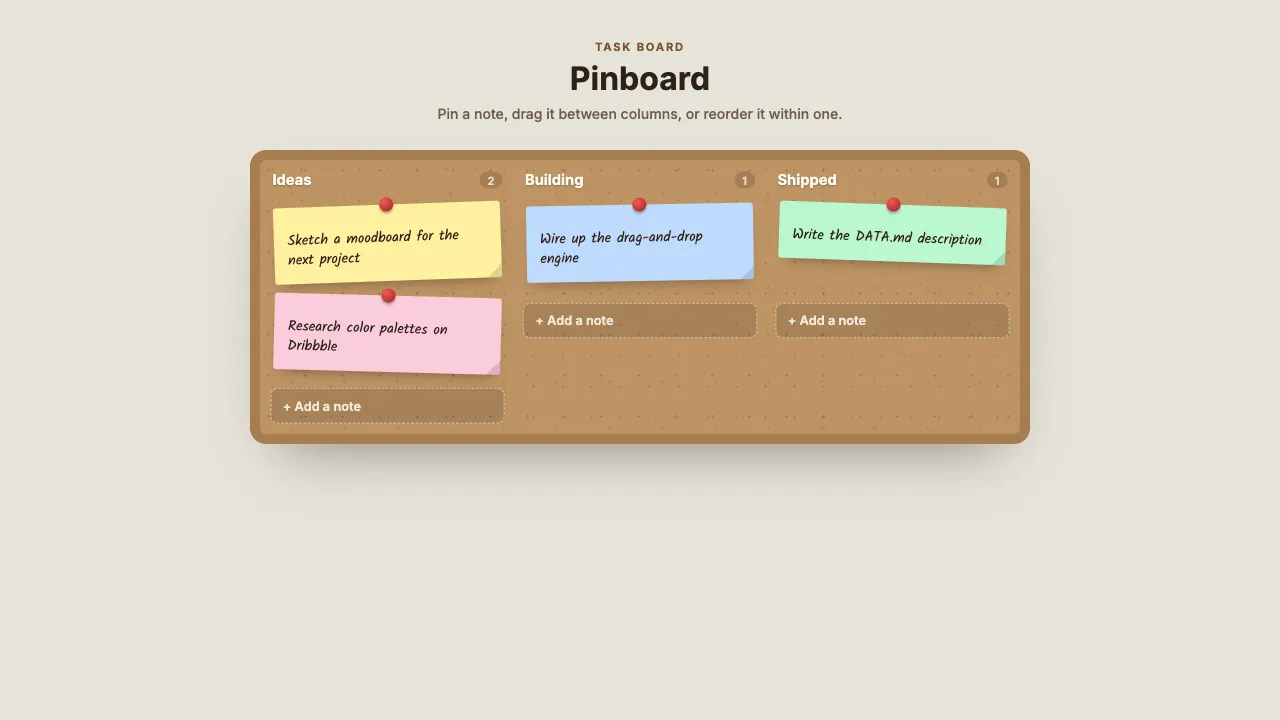
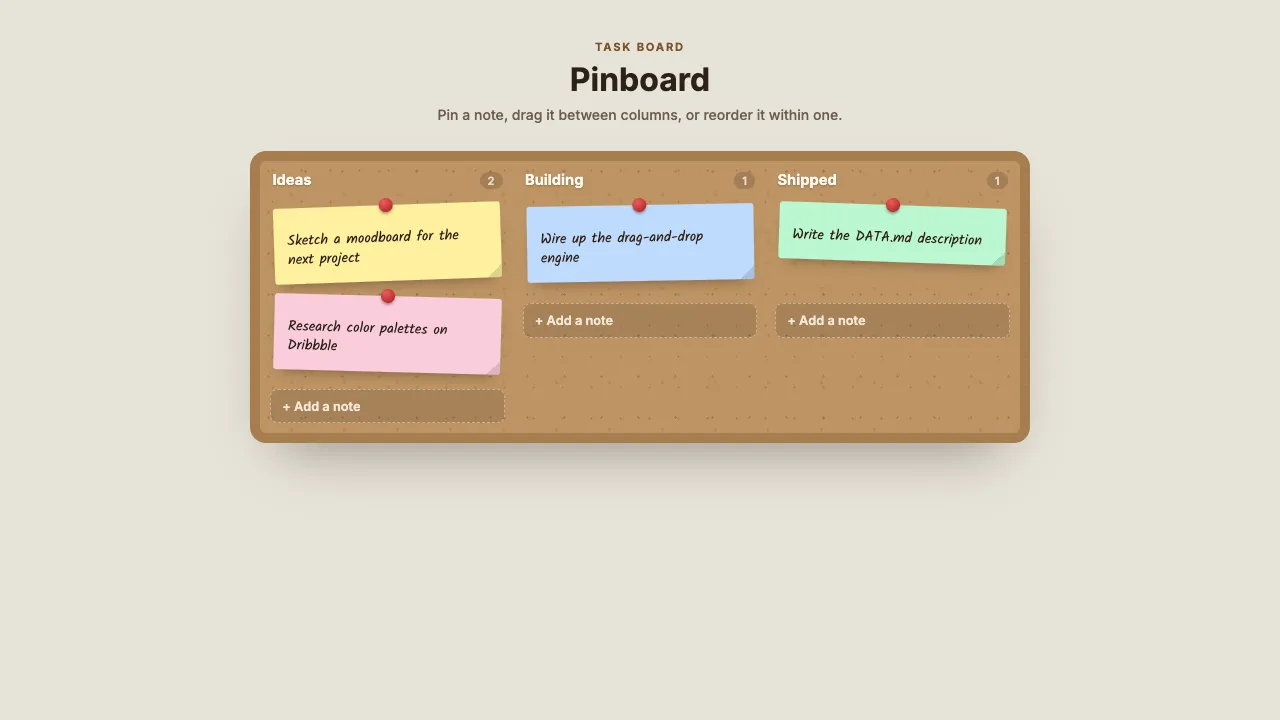
fix: Pinboard drop position and DATA.md metadata
- script.js: keep the dragged note's `is-dragging` class (position:
  fixed) applied through the settle transition instead of removing it
  first. Removing it early flipped the element to its base
  `position: relative` for one frame, and the inline left/top pixel
  values (meant as viewport coordinates) got reinterpreted as an
  offset from its normal flow position, flinging the card off to the
  side on drop.
- DATA.md: a literal bash quote-escaping artifact (`'"'"'`) had leaked
  into the English description instead of a plain apostrophe,
  corrupting the YAML frontmatter and silently dropping the
  description/difficulty/tags for this project everywhere they're
  read from consts.ts.

diff --git a/src/consts.ts b/src/consts.ts
@@ -700,16 +700,23 @@ export const PROJECTS: Project[] = [
   {
     "slug": "27-pinboard",
     "title": {
-      "en": "27-pinboard",
-      "es": "27-pinboard"
+      "en": "Pinboard",
+      "es": "Pinboard"
     },
     "hidden": false,
     "description": {
-      "en": "",
-      "es": ""
+      "en": "A corkboard-styled Kanban task board: pinned sticky notes you drag between three columns (or reorder within one) with a custom pointer-based drag engine built for touch, not the native HTML5 drag API. Persists to localStorage. Reimagined from html-css-js-projects #03, scoped up to match Frontend Mentor's Advanced-tier \"Kanban board\" challenge.",
+      "es": "Tablero Kanban con estilo de corcho: notas adhesivas ancladas que arrastras entre tres columnas (o reordenas dentro de una) con un motor de arrastre propio basado en eventos de puntero, pensado para funcionar también en pantallas táctiles, no la API nativa de HTML5. Persiste en localStorage. Inspirado en html-css-js-projects #03, con el alcance ampliado para acercarse al reto \"Kanban board\" de nivel Advanced de Frontend Mentor."
     },
-    "difficulty": "beginner",
-    "tags": [],
+    "difficulty": "advanced",
+    "tags": [
+      "HTML",
+      "CSS",
+      "JavaScript",
+      "drag-and-drop",
+      "localStorage",
+      "animation"
+    ],
     "links": {
       "homepage": null,
       "repository": null,

diff --git a/public/demo/27-pinboard/script.js b/public/demo/27-pinboard/script.js
@@ -252,7 +252,12 @@ function endDrag() {
   const finalRect = placeholder.getBoundingClientRect()
 
   const prefersReducedMotion = window.matchMedia('(prefers-reduced-motion: reduce)').matches
-  el.classList.remove('is-dragging')
+  // Keep `is-dragging` (position: fixed) active through the settle transition —
+  // removing it here would flip the element to its base `position: relative`
+  // one frame before `finish()` cleans it up via a fresh render(), and the
+  // inline left/top pixel values (meant as viewport coordinates) would then
+  // be reinterpreted as an offset from its normal flow position, flinging it
+  // off to whichever side that offset happens to point.
   if (!prefersReducedMotion) el.classList.add('is-settling')
   el.style.left = `${finalRect.left}px`
   el.style.top = `${finalRect.top}px`

diff --git a/workspace/27-pinboard/script.js b/workspace/27-pinboard/script.js
@@ -252,7 +252,12 @@ function endDrag() {
   const finalRect = placeholder.getBoundingClientRect()
 
   const prefersReducedMotion = window.matchMedia('(prefers-reduced-motion: reduce)').matches
-  el.classList.remove('is-dragging')
+  // Keep `is-dragging` (position: fixed) active through the settle transition —
+  // removing it here would flip the element to its base `position: relative`
+  // one frame before `finish()` cleans it up via a fresh render(), and the
+  // inline left/top pixel values (meant as viewport coordinates) would then
+  // be reinterpreted as an offset from its normal flow position, flinging it
+  // off to whichever side that offset happens to point.
   if (!prefersReducedMotion) el.classList.add('is-settling')
   el.style.left = `${finalRect.left}px`
   el.style.top = `${finalRect.top}px`

diff --git a/public/demo/27-pinboard/DATA.md b/public/demo/27-pinboard/DATA.md
@@ -3,7 +3,7 @@ title:
   en: 'Pinboard'
   es: 'Pinboard'
 description:
-  en: 'A corkboard-styled Kanban task board: pinned sticky notes you drag between three columns (or reorder within one) with a custom pointer-based drag engine built for touch, not the native HTML5 drag API. Persists to localStorage. Reimagined from html-css-js-projects #03, scoped up to match Frontend Mentor'"'"'s Advanced-tier "Kanban board" challenge.'
+  en: 'A corkboard-styled Kanban task board: pinned sticky notes you drag between three columns (or reorder within one) with a custom pointer-based drag engine built for touch, not the native HTML5 drag API. Persists to localStorage. Reimagined from html-css-js-projects #03, scoped up to match Frontend Mentor''s Advanced-tier "Kanban board" challenge.'
   es: 'Tablero Kanban con estilo de corcho: notas adhesivas ancladas que arrastras entre tres columnas (o reordenas dentro de una) con un motor de arrastre propio basado en eventos de puntero, pensado para funcionar también en pantallas táctiles, no la API nativa de HTML5. Persiste en localStorage. Inspirado en html-css-js-projects #03, con el alcance ampliado para acercarse al reto "Kanban board" de nivel Advanced de Frontend Mentor.'
 difficulty: 'advanced'
 keywords:

diff --git a/workspace/27-pinboard/DATA.md b/workspace/27-pinboard/DATA.md
@@ -3,7 +3,7 @@ title:
   en: 'Pinboard'
   es: 'Pinboard'
 description:
-  en: 'A corkboard-styled Kanban task board: pinned sticky notes you drag between three columns (or reorder within one) with a custom pointer-based drag engine built for touch, not the native HTML5 drag API. Persists to localStorage. Reimagined from html-css-js-projects #03, scoped up to match Frontend Mentor'"'"'s Advanced-tier "Kanban board" challenge.'
+  en: 'A corkboard-styled Kanban task board: pinned sticky notes you drag between three columns (or reorder within one) with a custom pointer-based drag engine built for touch, not the native HTML5 drag API. Persists to localStorage. Reimagined from html-css-js-projects #03, scoped up to match Frontend Mentor''s Advanced-tier "Kanban board" challenge.'
   es: 'Tablero Kanban con estilo de corcho: notas adhesivas ancladas que arrastras entre tres columnas (o reordenas dentro de una) con un motor de arrastre propio basado en eventos de puntero, pensado para funcionar también en pantallas táctiles, no la API nativa de HTML5. Persiste en localStorage. Inspirado en html-css-js-projects #03, con el alcance ampliado para acercarse al reto "Kanban board" de nivel Advanced de Frontend Mentor.'
 difficulty: 'advanced'
 keywords:
